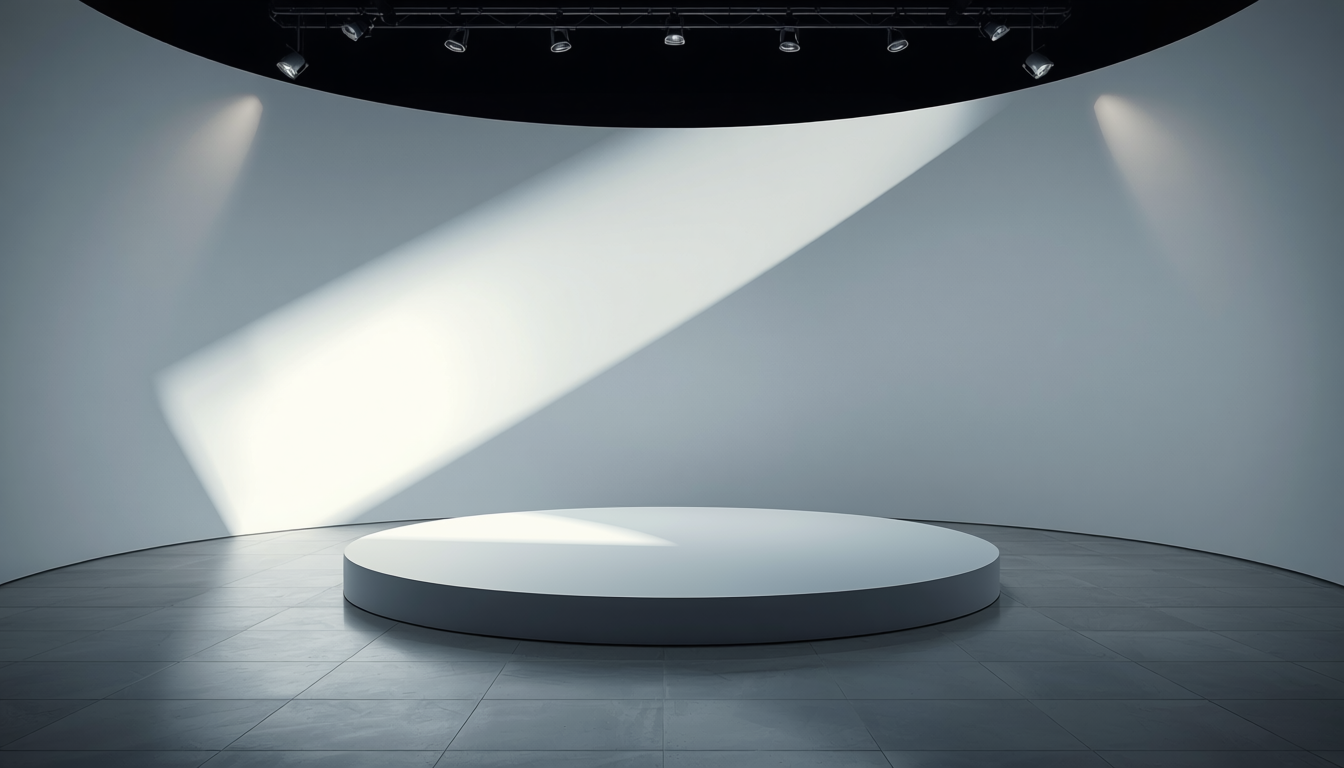
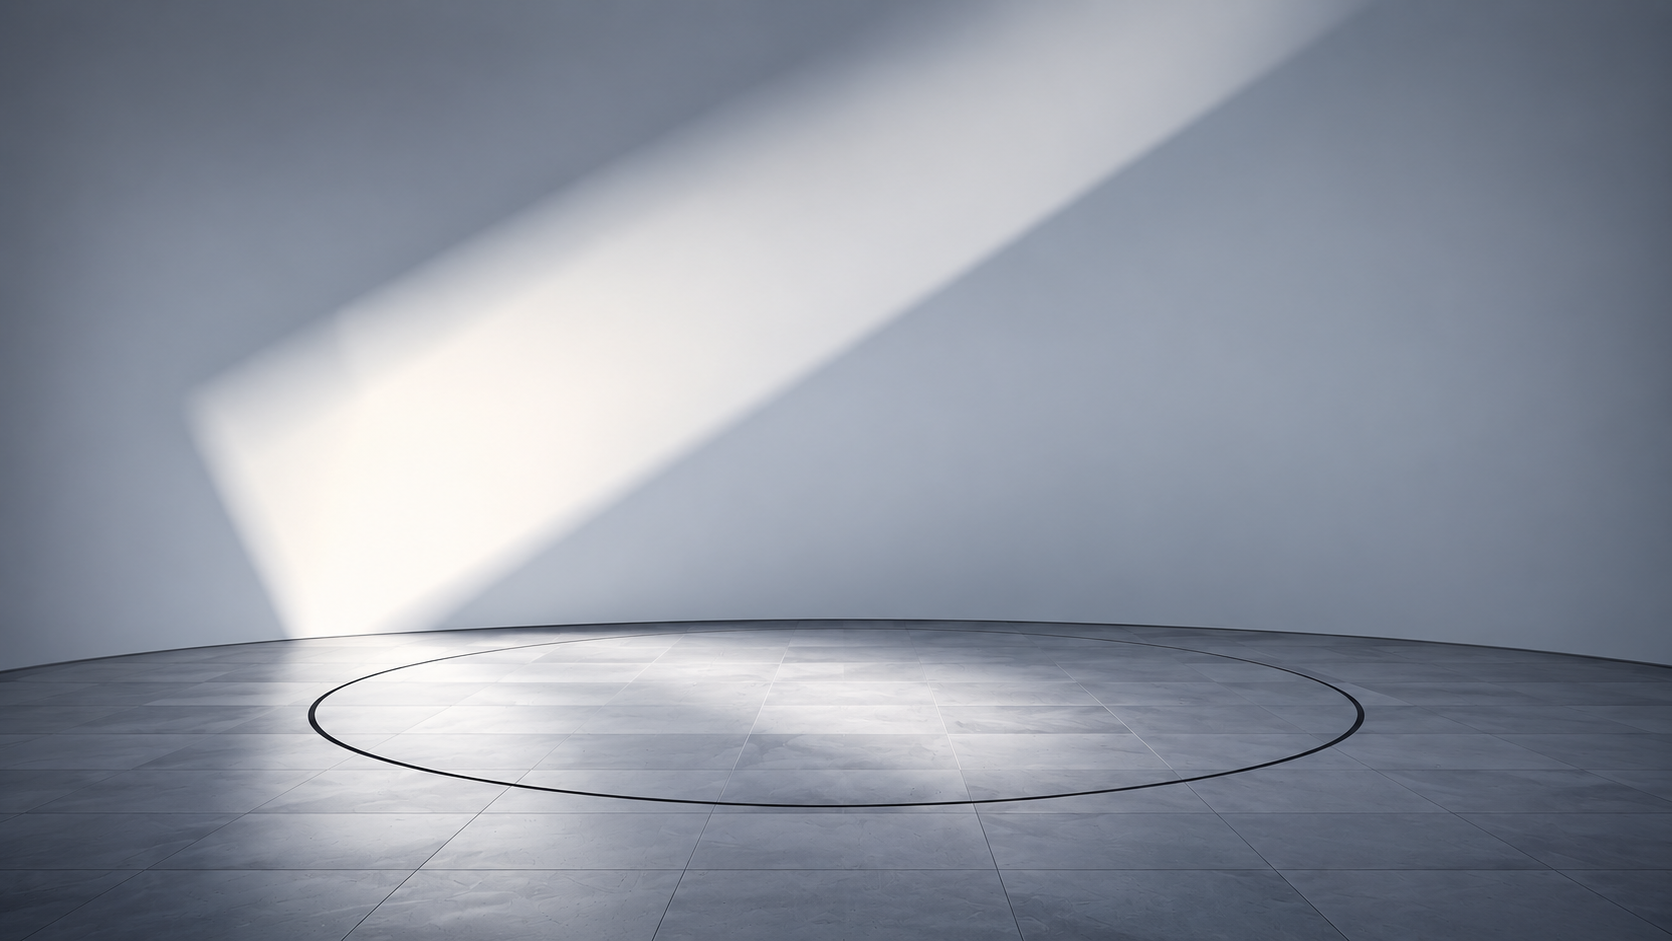
changes in components

diff --git a/src/components/Hero.jsx b/src/components/Hero.jsx
@@ -5,7 +5,7 @@ import Car360Viewer from "./Car360Viewer";
 
 const Hero = () => {
   return (
-    <section data-theme="dark" id="hero" className="relative h-[100vh] min-h-[600px] overflow-hidden">
+    <section data-theme="dark" id="hero" className="relative h-[80vh] lg:min-h-[600px] overflow-hidden">
       {/* Main */}
       <div className="relative w-full h-full">
         {/* Background Image */}
@@ -26,7 +26,7 @@ const Hero = () => {
         />
 
         {/* Content */}
-        <div className="relative z-20 container mx-auto px-4 sm:px-5 h-full flex flex-col justify-center items-center text-center">
+        <div className="absolute inset-0 top-[25%] md:top-[20%] z-20 container mx-auto px-4 sm:px-5 h-full flex flex-col text-center">
           <div className="flex flex-col items-center">
             <h1
               style={{ fontFamily: "Agrandir Wide Light" }}
@@ -34,14 +34,14 @@ const Hero = () => {
                 text-white font-bold
                 text-[28px] leading-[1.15]
                 sm:text-4xl md:text-[30px]
-                lg:text-[46px] xl:text-[50px] lg:leading-tight
+                lg:text-[50px] xl:text-[54px] lg:leading-tight
                 max-w-[280px] sm:max-w-md md:max-w-3xl lg:max-w-5xl px-2
               "
             >
               Find, Book & Rent Your Dream Car
             </h1>
 
-            <p
+            {/* <p
               style={{ fontFamily: "Agrandir Regular" }}
               className="
                 text-white/90 mt-3
@@ -51,7 +51,7 @@ const Hero = () => {
             >
               Discover premium vehicles at affordable prices.
               Rent anytime, anywhere with your Android and iOS devices.
-            </p>
+            </p> */}
 
             <button
               style={{ fontFamily: "Agrandir Regular" }}
@@ -70,12 +70,11 @@ const Hero = () => {
         {/* Car 360 Viewer  */}
         <div
           className="
-            absolute bottom-0 left-1/2 -translate-x-1/2 z-20
-            w-[90vw] max-w-[500px]
-            sm:max-w-[550px]
+            absolute bottom-30 lg:bottom-0 left-1/2 -translate-x-1/2 z-20
+            w-[100vw] max-w-[600px]
             md:max-w-[650px]
             lg:max-w-[760px]
-            xl:max-w-[800px]
+            xl:max-w-[900px]
             2xl:max-w-[1050px]
           "
         >

diff --git a/src/components/Footer.jsx b/src/components/Footer.jsx
@@ -7,7 +7,7 @@ const Footer = () => {
       className="bg-black px-5 py-8 lg:px-10 lg:py-6 lg:min-h-screen flex flex-col"
     >
       {/* Top Content */}
-      <div className="flex flex-col lg:flex-row justify-between items-center lg:items-start gap-8 text-center lg:text-left">
+      <div className="flex flex-col lg:flex-row justify-between items-start lg:items-start gap-8 text-start lg:text-left">
         {/* About */}
         <div className="max-w-[420px]">
           <h3
@@ -32,7 +32,7 @@ const Footer = () => {
         <nav>
           <ul
             style={{ fontFamily: "Agrandir Regular" }}
-            className="flex flex-col lg:flex-row items-center gap-4 lg:gap-6 text-white"
+            className="flex flex-col lg:flex-row lg:items-center gap-4 lg:gap-6 text-white"
           >
             <li>
               <a href="#about" className="hover:text-white/70 transition">

diff --git a/src/components/AboutUs.jsx b/src/components/AboutUs.jsx
@@ -266,7 +266,7 @@ const AboutUs = () => {
         id="about"
         className="relative min-h-screen overflow-hidden bg-black py-8 md:py-12 lg:py-0"
       >
-        <div className="mx-auto flex min-h-[calc(100vh-4rem)] w-full max-w-[1600px] flex-col lg:min-h-screen lg:flex-row md:min-h-[calc(100vh-6rem)]">
+        <div className="mx-auto flex min-h-[calc(100vh-4rem)] w-full flex-col lg:min-h-screen lg:flex-row md:min-h-[calc(100vh-6rem)]">
           {/* LEFT SIDE  */}
           <div className="relative flex w-full items-center justify-center py-4 lg:w-1/2 lg:py-0">
             {/* Decorative Frame  */}

diff --git a/src/components/Navbar.jsx b/src/components/Navbar.jsx
@@ -53,7 +53,7 @@ const Navbar = () => {
   const headerClass =
     "w-full fixed z-[10000] top-0 left-0 py-3 px-5 lg:py-4 lg:px-0 lg:mx-auto bg-gradient-to-r from-black/40 via-white/10 to-black/40 backdrop-blur-lg shadow-2xl border " +
     borderColor +
-    " lg:rounded-full transition-colors duration-500";
+    " rounded-full transition-colors duration-500";
 
   const titleClass =
     "text-xl lg:text-2xl " +

diff --git a/src/components/OurServices.jsx b/src/components/OurServices.jsx
@@ -220,7 +220,7 @@ const OurServices = () => {
                         absolute
                         bottom-6
                         left-1/2
-                        w-[88%] h-[30%]
+                        w-[90%] h-[30%]
                         -translate-x-1/2
                         rounded-[20px]
                         border